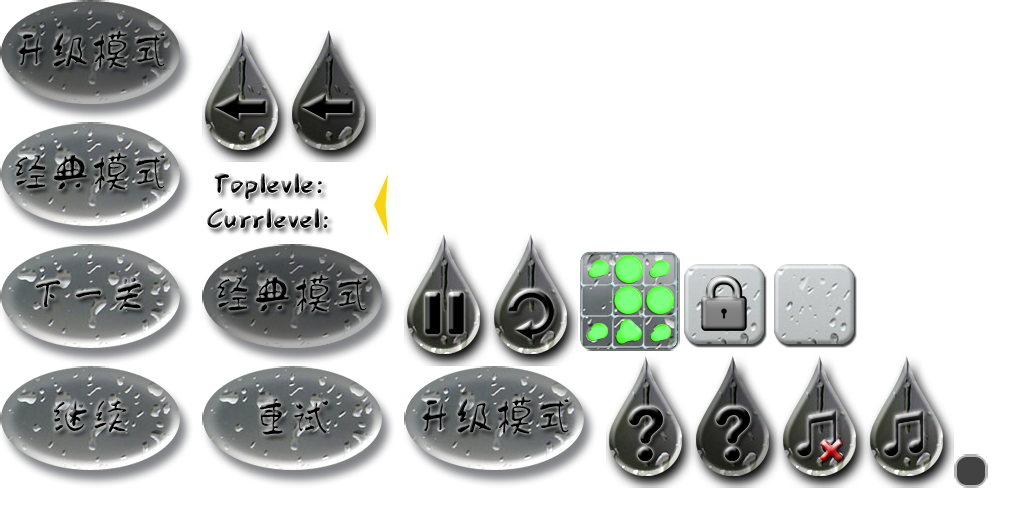
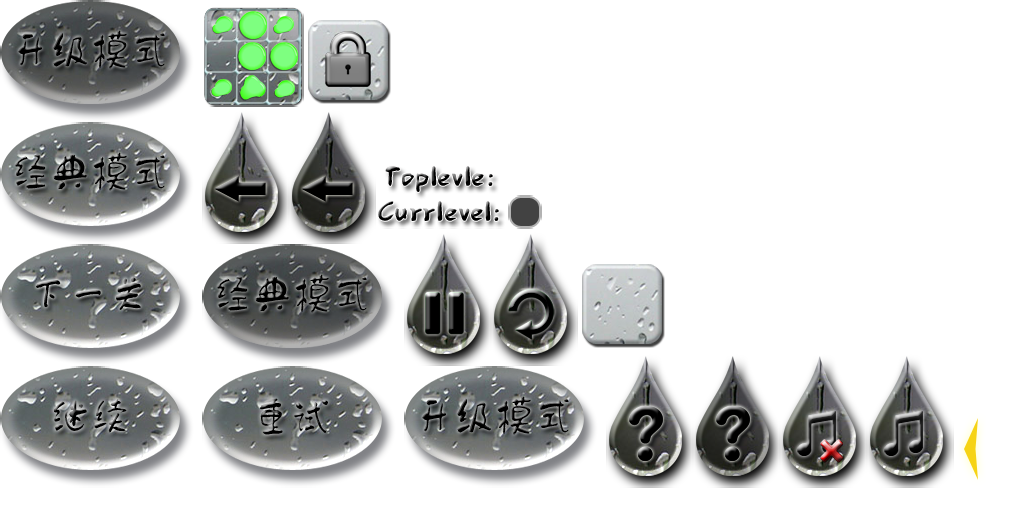
完成对当前关卡数的设定

Changed region(s): [[0.1875, 0.0, 0.5312, 0.5], [0.5625, 0.4688, 0.8438, 0.6875], [0.9062, 0.8438, 0.9688, 0.9688]]

diff --git a/core/src/com/libgdx/tenwater/actor/MiddleGroup.java b/core/src/com/libgdx/tenwater/actor/MiddleGroup.java
@@ -92,6 +92,10 @@ public class MiddleGroup extends BaseGroup {
 		return gridImg;
 	}
 	
+	public int getCurLevel() {
+        return curLevel + 1;
+    }
+	
     @Override
     public void act(float delta) {
         super.act(delta);
